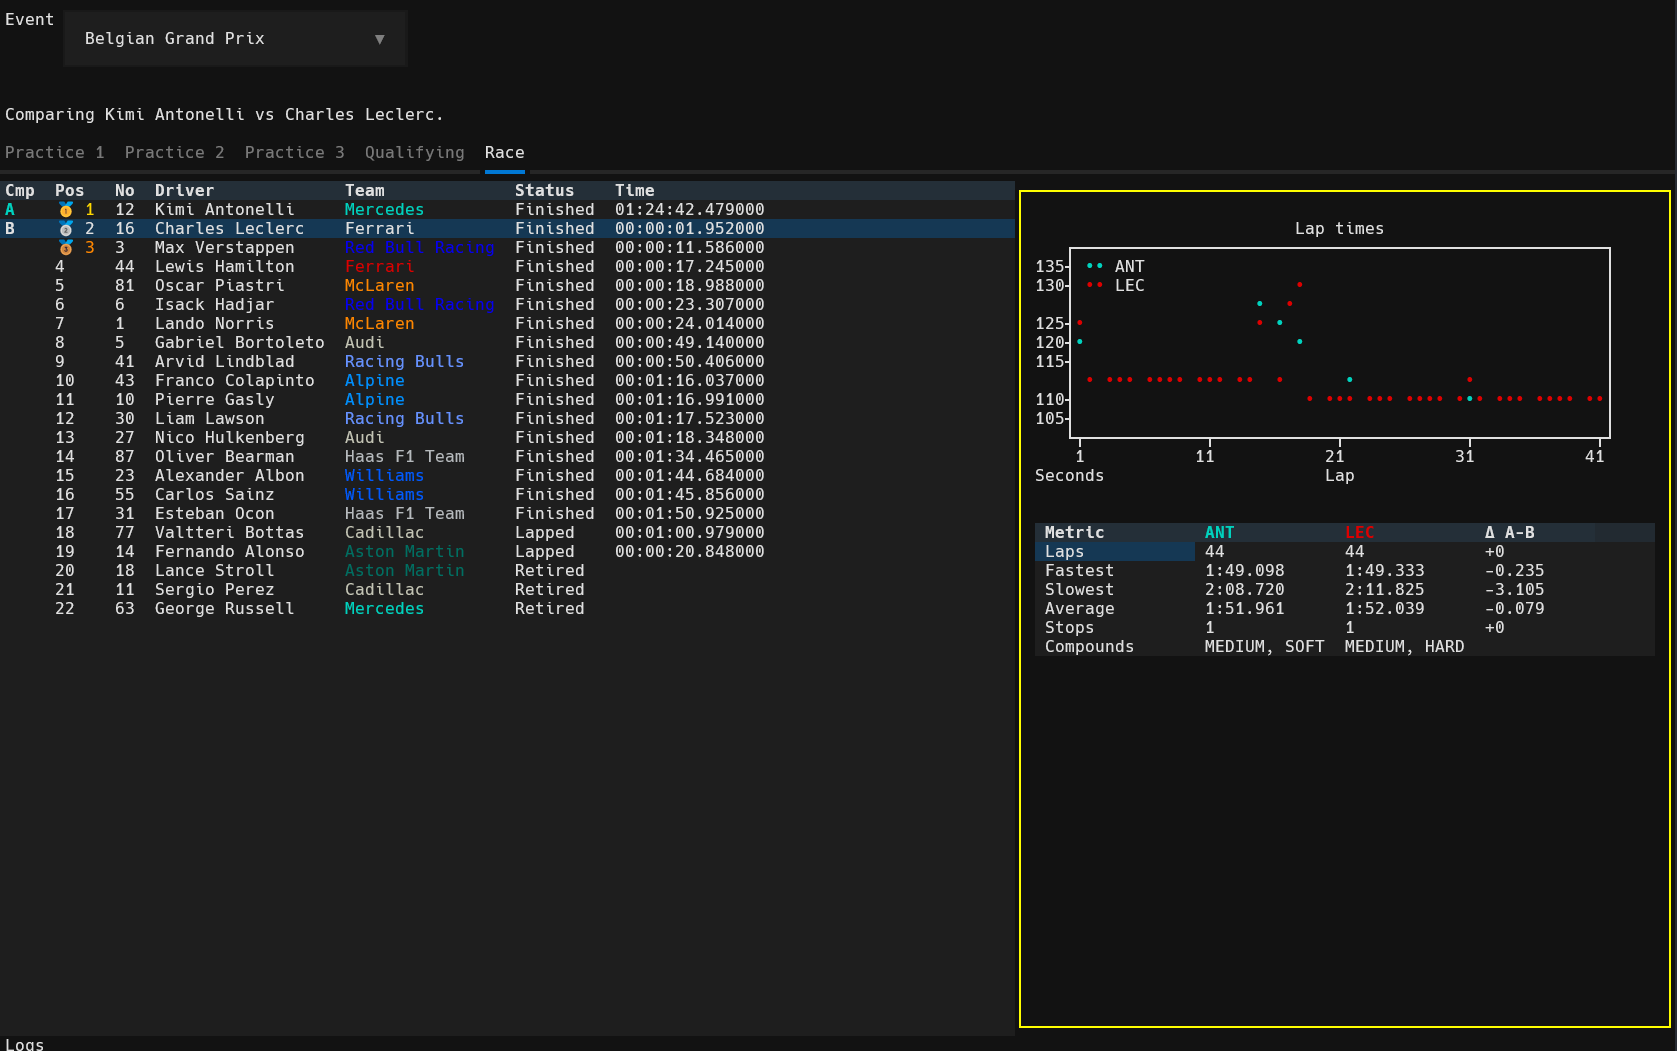
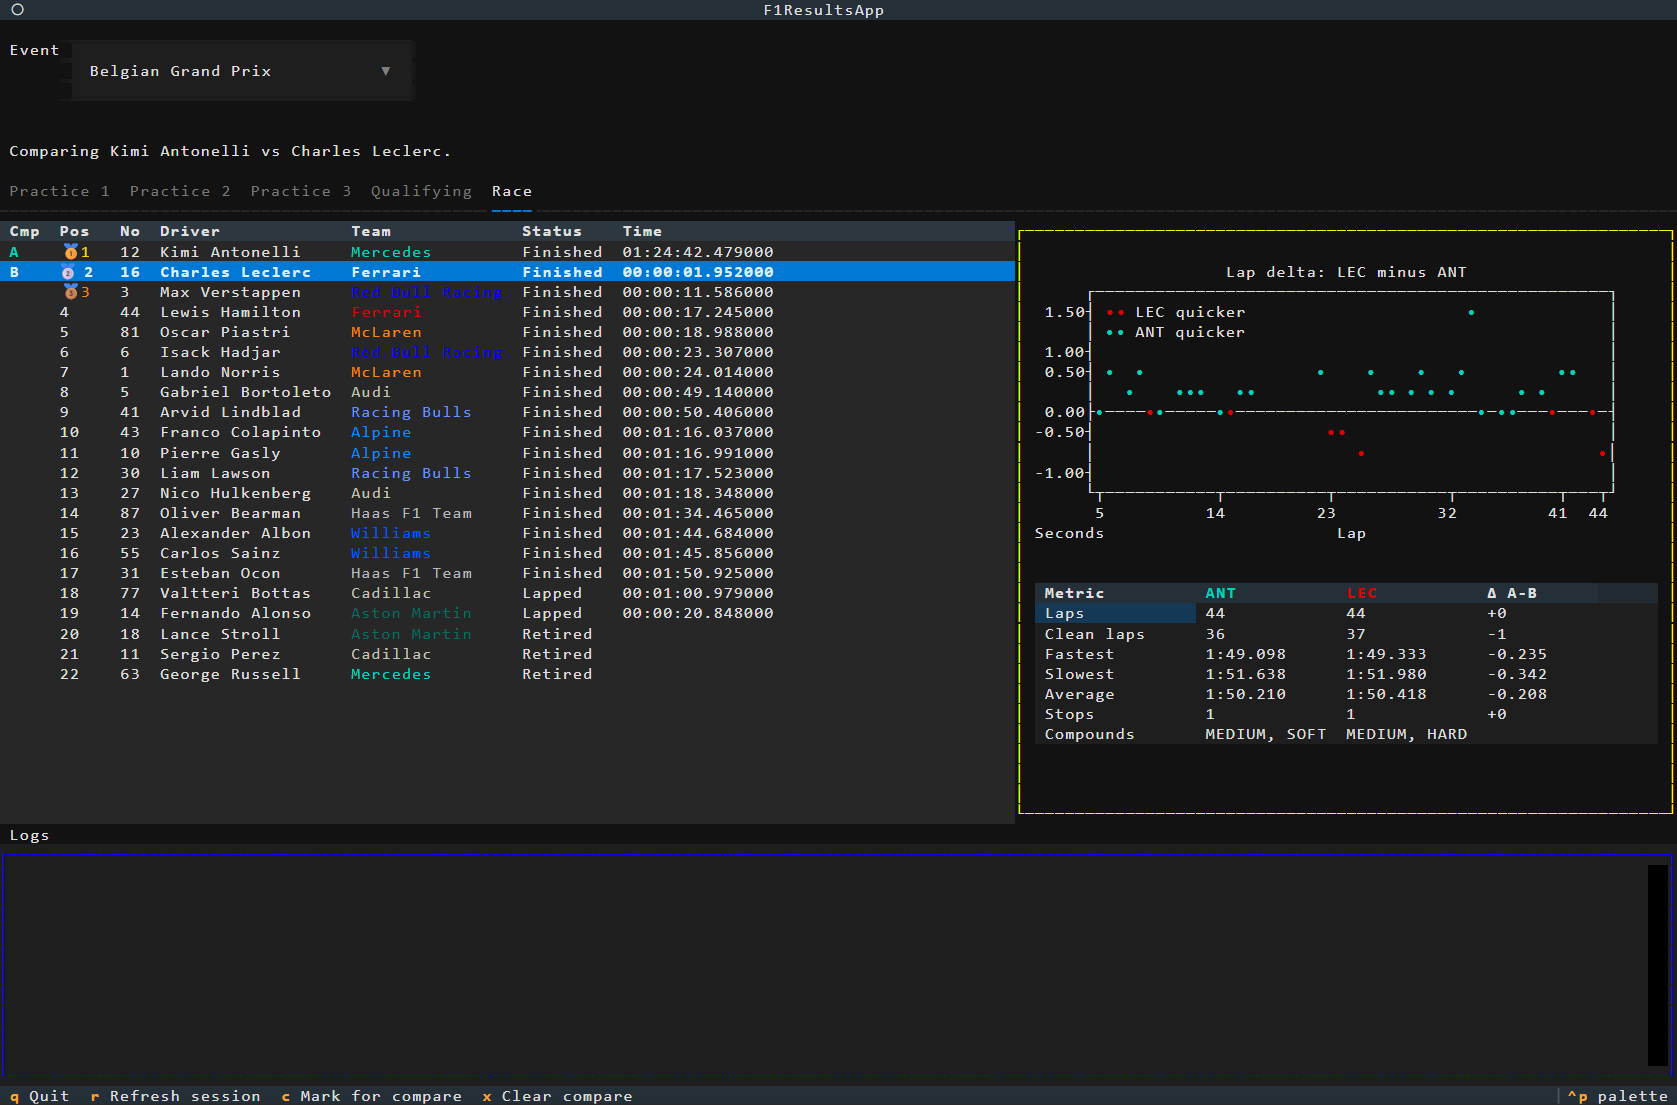
Update the README for the clean-lap graphs (#24)
The screenshot still showed the old comparison view, which happened to be a
good illustration of the problem that has since been fixed: both drivers'
lap times overlaid on an axis spanning 105-135s, with every racing lap
squashed onto a single row around 110. Replace it with the same weekend and
the same two drivers rendered by the current code, so the per-lap delta
graph and the Clean laps row are what a reader sees.

Describe the clean-lap filter in "Using it" -- which laps it drops, that
Laps still counts every lap completed, and that excluded laps show up as
gaps because the x axis keeps real lap numbers. Rewrite the comparison
section, which still described two overlaid scatter series.

Ignore .claude/, which holds local Claude Code settings.

diff --git a/README.md b/README.md
@@ -59,6 +59,8 @@ The app opens on the current weekend with its first session loaded. Pick a diffe
 
 Selecting a result row loads lap details for that driver. FastF1 caches session data, so the first load of a session is slow and later ones are quick.
 
+The lap-time graphs and the fastest/slowest/average figures are built from *clean* laps only — pit in and out laps, and laps run under a safety car, VSC or red flag, are left out. A single out-lap is around twenty seconds off the pace, which is enough to stretch the axis and flatten every racing lap onto one row. The panel says how many laps were excluded, `Laps` still counts every lap completed, and the graph keeps real lap numbers on the x axis, so the excluded laps show up as gaps.
+
 | Key | Action |
 | --- | --- |
 | `Enter` | Show details for the highlighted driver |
@@ -69,7 +71,9 @@ Selecting a result row loads lap details for that driver. FastF1 caches session 
 
 ### Comparing two drivers
 
-Marking a second driver with `c` opens the comparison view, as in the screenshot above: both drivers' lap times on one scatter graph — coloured by team, falling back to cyan/magenta when teammates share a colour — plus a side-by-side table of laps, fastest/slowest/average lap, stops and compounds, with the A−B delta in the last column. Qualifying comparisons also list each driver's delta to pole and their sector times with sector-by-sector deltas.
+Marking a second driver with `c` opens the comparison view, as in the screenshot above: a per-lap delta graph of `B − A`, with each lap coloured by whoever was quicker — team colours, falling back to cyan/magenta when teammates share one — plus a side-by-side table of laps, clean laps, fastest/slowest/average lap, stops and compounds, with the A−B delta in the last column. Qualifying comparisons also list each driver's delta to pole and their sector times with sector-by-sector deltas.
+
+The graph plots the difference rather than both drivers' lap times together because two drivers are usually within a second of each other while the axis has to span several, so overlaid series land on the same rows and cannot be told apart. Only laps *both* drivers ran cleanly get a delta.
 
 Pressing `c` on a third driver starts a fresh comparison from that driver.
 
